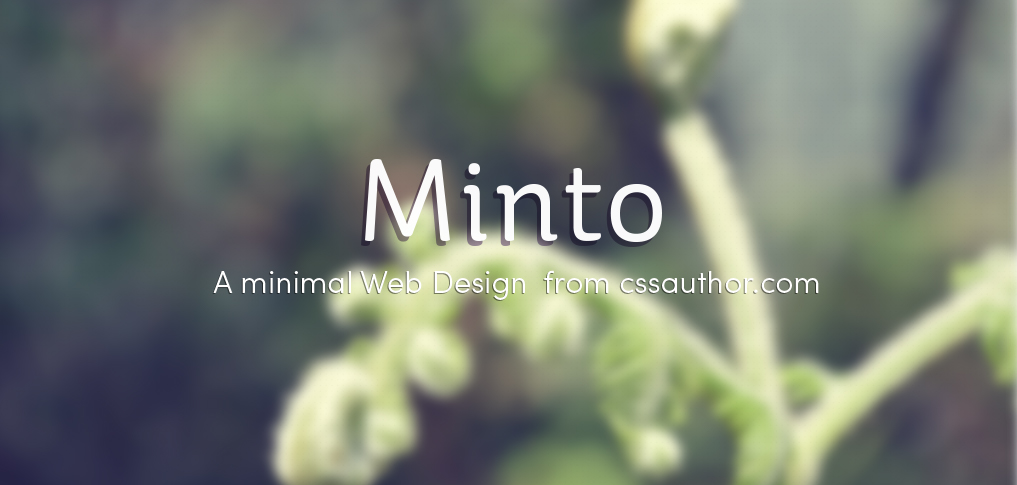
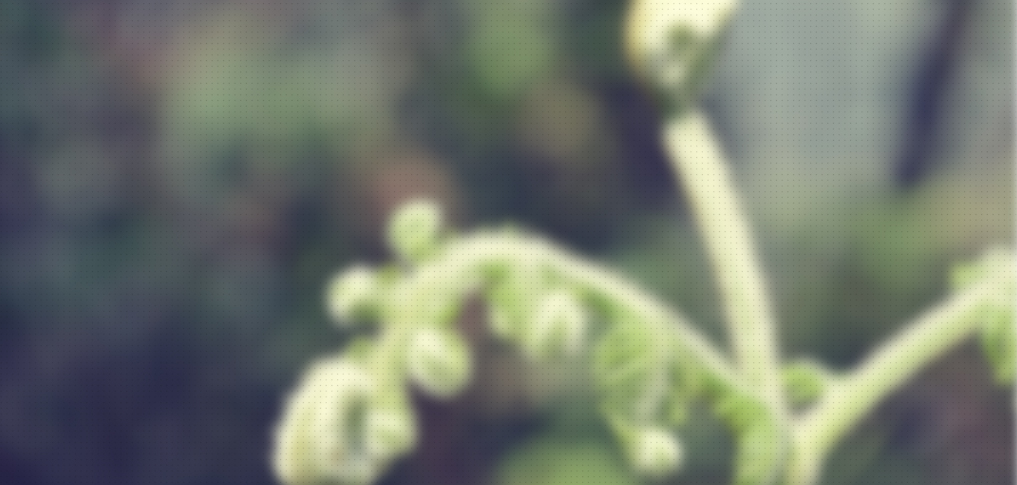
finished big-text and small-text

Changed region(s): [[0.3353, 0.3093, 0.6706, 0.5258], [0.2134, 0.5567, 0.823, 0.6186]]

diff --git a/public/css/styles.css b/public/css/styles.css
@@ -13,10 +13,17 @@
     src: url("../fonts/SegoeUIRegular.woff")
 }
 
-/*@font-face {*/
-/*font-family: "St Ryde Regular";*/
-/*src: url("../fonts/StRyde-Regular.woff")*/
-/*}*/
+@font-face {
+    font-family: "St Ryde Regular";
+    src: url("../fonts/StRyde-Regular.woff")
+}
+
+@font-face {
+    font-family: "Sofia Pro Light";
+    src: url("../fonts/sofia-pro-light.woff")
+}
+
+
 
 hr {
     border: none;
@@ -66,15 +73,41 @@ hr {
 .banner {
     /*opacity: 0.5;*/
     width: 100%;
+    position: relative;
+
 }
 
 .banner img {
     width: 100%;
+
 }
 
-/*.banner p {*/
-/*font-family: St Ryde Regular, sans-serif;*/
-/*}*/
+.big-text {
+    /*border: 1px dashed red;*/
+    position: absolute;
+    color: white;
+    text-shadow: -3px 3px #52424c;
+    top: 40%;
+    left: 50%;
+    transform: translate(-50%, -50%);
+    font-family: St Ryde Regular, sans-serif;
+    font-size: 117px;
+    margin: 0;
+}
+
+.small-text {
+    position: absolute;
+    color: white;
+    text-shadow: -1px 1px #52424c;
+    white-space: nowrap;
+    top: 57%;
+    left: 50%;
+    transform: translate(-50%, -50%);
+    font-family: Sofia Pro Light, sans-serif;
+    font-size: 31px;
+    margin: 0;
+
+}
 
 /*===========================================QT==========================*/
 .QT {
@@ -230,11 +263,22 @@ hr {
 }
 
 /*==================================MEDIA===========================*/
+@media (max-width: 1040px) {
+    .big-text {
+        font-size: 11vw;
+    }
+    .small-text {
+        font-size: 3vw;
+    }
+}
+
+
 @media (max-width: 820px) {
     .content {
         flex-wrap: wrap;
         justify-content: center;
     }
+
     .content article {
         padding-top: 5px;
     }
@@ -245,6 +289,7 @@ hr {
         flex-wrap: wrap;
         justify-content: center;
     }
+
     .logo {
         margin: 0;
     }
@@ -254,10 +299,12 @@ hr {
     .header {
         height: auto;
     }
+
     .nav {
         flex-direction: column;
         align-items: center;
     }
+
     .circle {
         display: none;
     }

diff --git a/index.html b/index.html
@@ -24,7 +24,8 @@
 
     <section class="banner">
         <img src="public/images/big_image.jpg">
-        <!--<p>Minto</p>-->
+        <p class="big-text">Minto</p>
+        <p class="small-text">A minimal Web Design  from cssauthor.com</p>
     </section>
 
     <section class="QT">
@@ -72,7 +73,6 @@
         <div>
             <img src="public/images/logo_mashable.png">
         </div>
-        <!--<section class="linebreak1"></section>-->
         <div>
             <img src="public/images/logo_techcrunch.png">
         </div>
